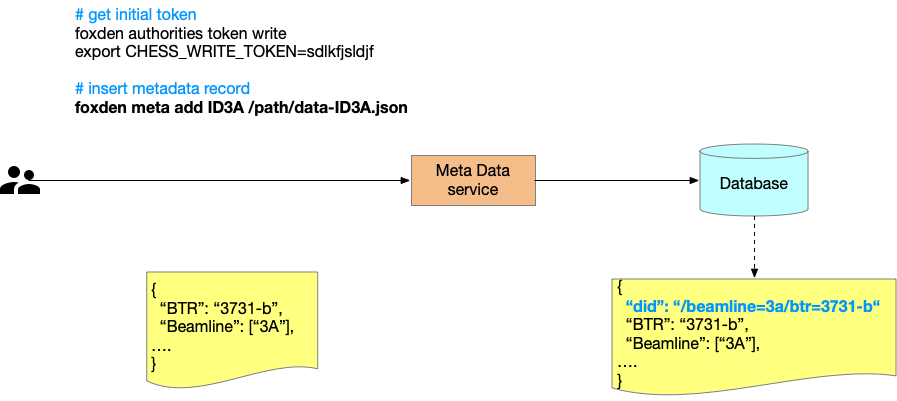
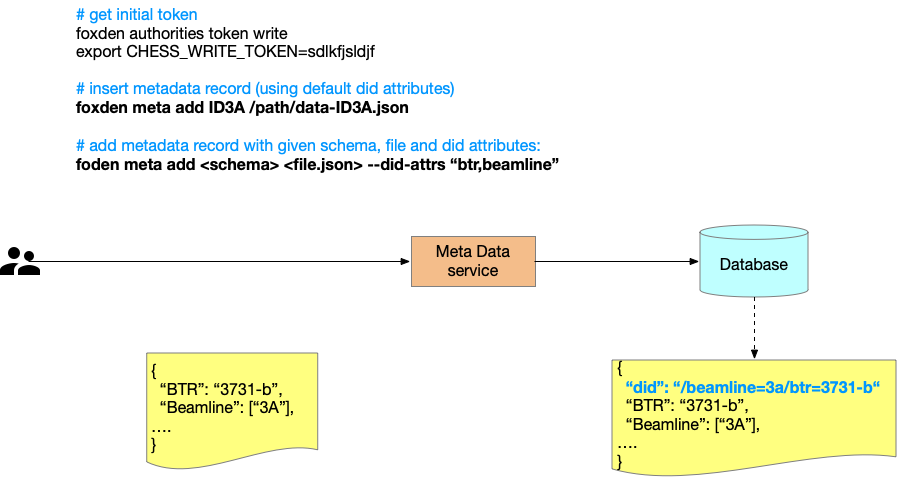
update

diff --git a/static/markdown/did.md b/static/markdown/did.md
@@ -19,7 +19,7 @@ dataset. It may be represented in two different forms:
 /key1=value1/key2=value2/...
 ```
 
-Additional constraints:
+### Additional constraints:
 - Choice of characters in key-value pairs: We suggest choosing one common
   notation, for instance, lowercase keys and values, with no empty spaces. If
   an empty space is required by a value, it should be replaced by an underscore
@@ -36,14 +36,17 @@ Additional constraints:
   "/key=value"}`, while parsing `did:/key:value` becomes difficult to implement
   due to multiple meanings of a separator.
 
+<br/>
 
-### DID Placement in CHESS/FOXDEN Workflows and Services
+## DID Placement in CHESS/FOXDEN Workflows and Services
 
 The CHESS/FOXDEN dataset becomes live once a new metadata record is recorded in
 the MetaData service. At this point, users or user workflows may specify a DID
 value, provide a list of attributes to construct it from, or rely on underlying
 tools, libraries, or services to use default attributes (e.g., `beamline`,
 `btr`, `cycle`, `sample`).
+
+<br/>
 
 Each metadata record describes the conditions of a specific experiment and the
 data collected at CHESS beamlines. These records adhere to a predefined schema
@@ -53,11 +56,20 @@ record. Therefore, users or user workflows have three possibilities:
 
 1. Specify the DID value within the metadata record itself (the corresponding key is `did`).
 2. Provide a comma-separated list of attributes to define a DID, e.g., `key1,key2,...`.
-3. Allow the underlying service/tool to use defaults, e.g., `beamline`, `btr`, `cycle`, `sample`.
+3. Allow the underlying service/tool to use defaults, e.g., `beamline,btr,cycle,sample`.
+
+<br/>
+Here is an example of metadata insertion using **foxden** command line tool:
+<br/>
+![foxdendid](/images/foxden_did.png)
+
+<br/>
 
 Please note that CHESS metadata records follow the CamelCase keys convention,
 while we suggest using lowercase keys and values in the DID string
 representation or construction (which will be done by underlying software).
+
+<br/>
 
 Once the DID is defined and recorded within the metadata record, it will be
 used in other services such as Provenance, Data Management, SpecScans, and Data
@@ -68,11 +80,12 @@ files or blob chunks into a dataset, while the SpecScans service will provide a
 mapping between the DID and specific motor positions used during the
 experiment.
 
+<br/>
+
 During a lookup via Data Discovery, users can specify the DID to find details
 about a specific dataset.
 
-![foxdendid](/images/foxden_did.png)
-
+<br/>
 
 ### Dataset Relationships
 
@@ -118,7 +131,18 @@ DatasetA -> DatasetB -> DatasetC
 In either case, the Data Discovery service can look up the relationship between
 two dataset DIDs and find out the original metadata record.
 
-### Usage of DID in search queries
-Here is how we envision the system will work.
+<br/>
 
+### Usage of DID in search queries
+Here is how we envision the system will work:
+- a user place a query to FOXDEN frontend
+- the query is sent to Data Discovery service
+- the Data Discovery service convert query into spec and send request to FOXDEN
+  services, like MetaData, Provenance, Spec Scan, etc.
+- it retrieves results and present them to end-user
+- optionally we may add aggregation to final result set and merge them together
+
+<br/>
+
+Here is pictorial representation of this workflow:
 ![foxdendidsearch](/images/foxden_did_search.png)

diff --git a/static/markdown/infrastructure.md b/static/markdown/infrastructure.md
@@ -1,5 +1,19 @@
-### CHESS/FOXDEN infrastructure
+# CHESS/FOXDEN infrastructure
 ![infrastructure](/images/ChessDataManagementSoftware.png)
 
-### CHESS/FOXDEN Dataset IDendifier
-Please see [DID proposal](/docs/did.md)
+FAIR Open-Science Extensible Data Exchange Network (FOXDEN) consists of the following components:
+
+### Core services:
+- **Data Management Service:** S3 compliant data management service for accessing raw and derived datasets
+- **Data Discovery Service:** allows users to search for meta and provenance data
+- **Metadata Service:** store and manage meta-data information
+- **Provenance Service:** store and manage provenance information about datasets
+- **SpecScans Service:** designed to store and access spec scans
+- **Publication Service:** designed to create, manage and publish DOI information about CHESS data
+  - We should aim to convert this service to fully complaint FAIR digitial object registry., part of FAIR digital object framework. More information can be captured from How to go FAIR document.
+
+### Advanced Services
+- **Vizualization:** data service for data vizualization
+- **MLHub:** data service specifically designed for managing AI/ML models (store ML models, and associated meta-data and provides inference API)
+- **CHAPBook:** data service for novice programmers with Jupyter-like interface for writing code, it is integrated with CHAP framework
+- **Data Analysis:** data service provides an interface to the X-ray Imaging of Microstructures

diff --git a/static/markdown/main.md b/static/markdown/main.md
@@ -18,6 +18,13 @@ All of them are glued together by HTTP protocol and represent whole
 For further details please refer to [implementation](docs/implementation.md)
 and [apis](docs/apis.md) details.
 
+<br/>
+
+### CHESS/FOXDEN Dataset IDendifier
+Please see [DID proposal](/docs/did.md)
+
+<br/>
+
 ### Usage
 Users may user CHESS Data Management system in many ways
 - web UI, please visi [serivces](services) page
